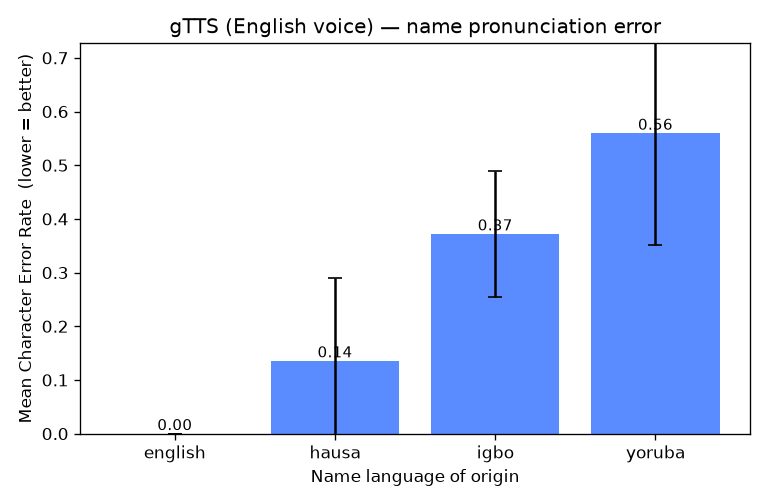
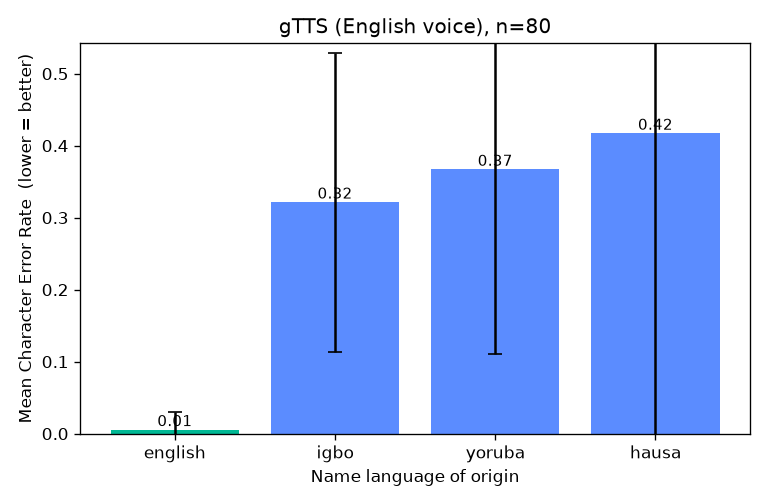
v0.5: expand dataset to 80 names (20 per language) + refresh findings
Grow data/names.csv from 16 to 80 balanced names. Re-ran the pipeline (gTTS ->
Whisper -> analysis): English vs African CER gap stable at +0.36 (n=80). Larger
sample corrects a small-sample artifact (Hausa 0.14 -> 0.42 once pan-Islamic
names no longer dominate). README documents results, the small-sample lesson,
and honest name provenance (general-knowledge list, needs native-speaker review).

diff --git a/README.md b/README.md
@@ -4,10 +4,10 @@ Measuring how accurately text-to-speech (TTS) systems pronounce personal names
 from African languages (**Yoruba, Igbo, Hausa**) compared to common **English**
 names — to surface and quantify bias in deployed speech systems.
 
-> **Status: v0.4 — synthesis + ASR scoring + analysis.** The pipeline
-> synthesizes names with a chosen TTS engine, records a manifest, scores
-> pronunciation by transcribing the audio back with Whisper, and aggregates the
-> results into per-language statistics and a chart.
+> **Status: v0.5 — 80-name dataset + full pipeline.** 20 names per language
+> (English/Yoruba/Igbo/Hausa). The pipeline synthesizes with a chosen TTS
+> engine, records a manifest, scores pronunciation via Whisper back-
+> transcription, and aggregates the results into per-language stats and a chart.
 
 ## Why this matters
 
@@ -86,6 +86,10 @@ brew install espeak-ng          # macOS (needs Homebrew)
 
 - **Names are people.** Use common given names or documented name lists, and
   cite their source. Do **not** target or profile private individuals.
+  **Provenance of the current dataset:** the 80 names are common given names
+  compiled from general knowledge (not a cited corpus) and are *not yet*
+  validated by native speakers. Before any publication, replace/verify them with
+  a documented source and native-speaker review of spellings and diacritics.
 - **Ground truth needs native speakers.** Scoring "correct" pronunciation
   requires a reference (IPA and/or native-speaker recordings). Source this with
   the **informed consent and credit** of native speakers; treat it as human-
@@ -121,21 +125,26 @@ python analyze.py --scores outputs/scores.csv --out outputs/analysis \
 Aggregates a `scores.csv` into per-language statistics (`summary.csv`) and a bar
 chart of mean CER by language (`cer_by_language.png`).
 
-## Preliminary findings (v0.4, gTTS, English voice, n=16)
+## Preliminary findings (v0.5, gTTS, English voice, n=80 — 20 per language)
 
 ![Mean CER by name language](docs/cer_by_language.png)
 
 | language | mean CER | exact-match rate |
 |----------|---------:|-----------------:|
-| english  | 0.00 | 100% |
-| hausa    | 0.14 | 50%  |
-| igbo     | 0.37 | 0%   |
-| yoruba   | 0.56 | 0%   |
+| english  | 0.01 | 95% |
+| igbo     | 0.32 | 15% |
+| yoruba   | 0.37 | 10% |
+| hausa    | 0.42 | 25% |
 
-**English vs African CER gap: +0.36.** Every English name transcribed perfectly;
-no Yoruba or Igbo name did (e.g. *Oluwaseun* → "Alois Seyoon", *Folake* →
-"for locker"). Hausa scores better mostly because *Aisha*/*Ibrahim* are common
-globally. These are tiny-n, illustrative results — not yet a statistical claim.
+**English vs African CER gap: +0.36** (stable across the n=16 and n=80 runs).
+English names transcribe almost perfectly; African names show 30–40× higher
+error (e.g. *Oluwaseun* → "Alois Seyoon", *Folake* → "for locker").
+
+**Why the bigger sample mattered:** at n=16, Hausa looked *better* (0.14) than
+Igbo/Yoruba — but that small sample was dominated by globally-common pan-Islamic
+names (*Aisha*, *Ibrahim*). At n=80 the effect washes out and Hausa is 0.42.
+A textbook case of small-sample bias, and the reason for expanding the dataset.
+Still preliminary (n=80, one engine) — not yet a formal statistical claim.
 
 **Metric caveat.** ASR back-transcription mixes (1) TTS pronunciation quality and
 (2) how ASR-friendly the audio is. A clean English baseline (gTTS: 0.00) isolates
@@ -150,7 +159,8 @@ follow-up.
 2. ✅ Second engine: espeak-ng (offline, deterministic, IPA-capable)
 3. ✅ Scoring v1: ASR back-transcription (Whisper) + CER, summarised by language
 4. ✅ Analysis: per-language stats + bar chart (`analyze.py`)
-5. Add reference pronunciations (IPA / native-speaker audio) to `data/names.csv`
-6. Expand the dataset (more names, balanced per language) with sources cited
+5. ✅ Expand the dataset to 80 names (20 per language, balanced)
+6. Add reference pronunciations (IPA / native-speaker audio) + cite name sources
 7. Add more engines (Coqui neural; cloud APIs for real deployed systems)
+8. Statistical testing (e.g. significance of the per-language gap)
 ```
